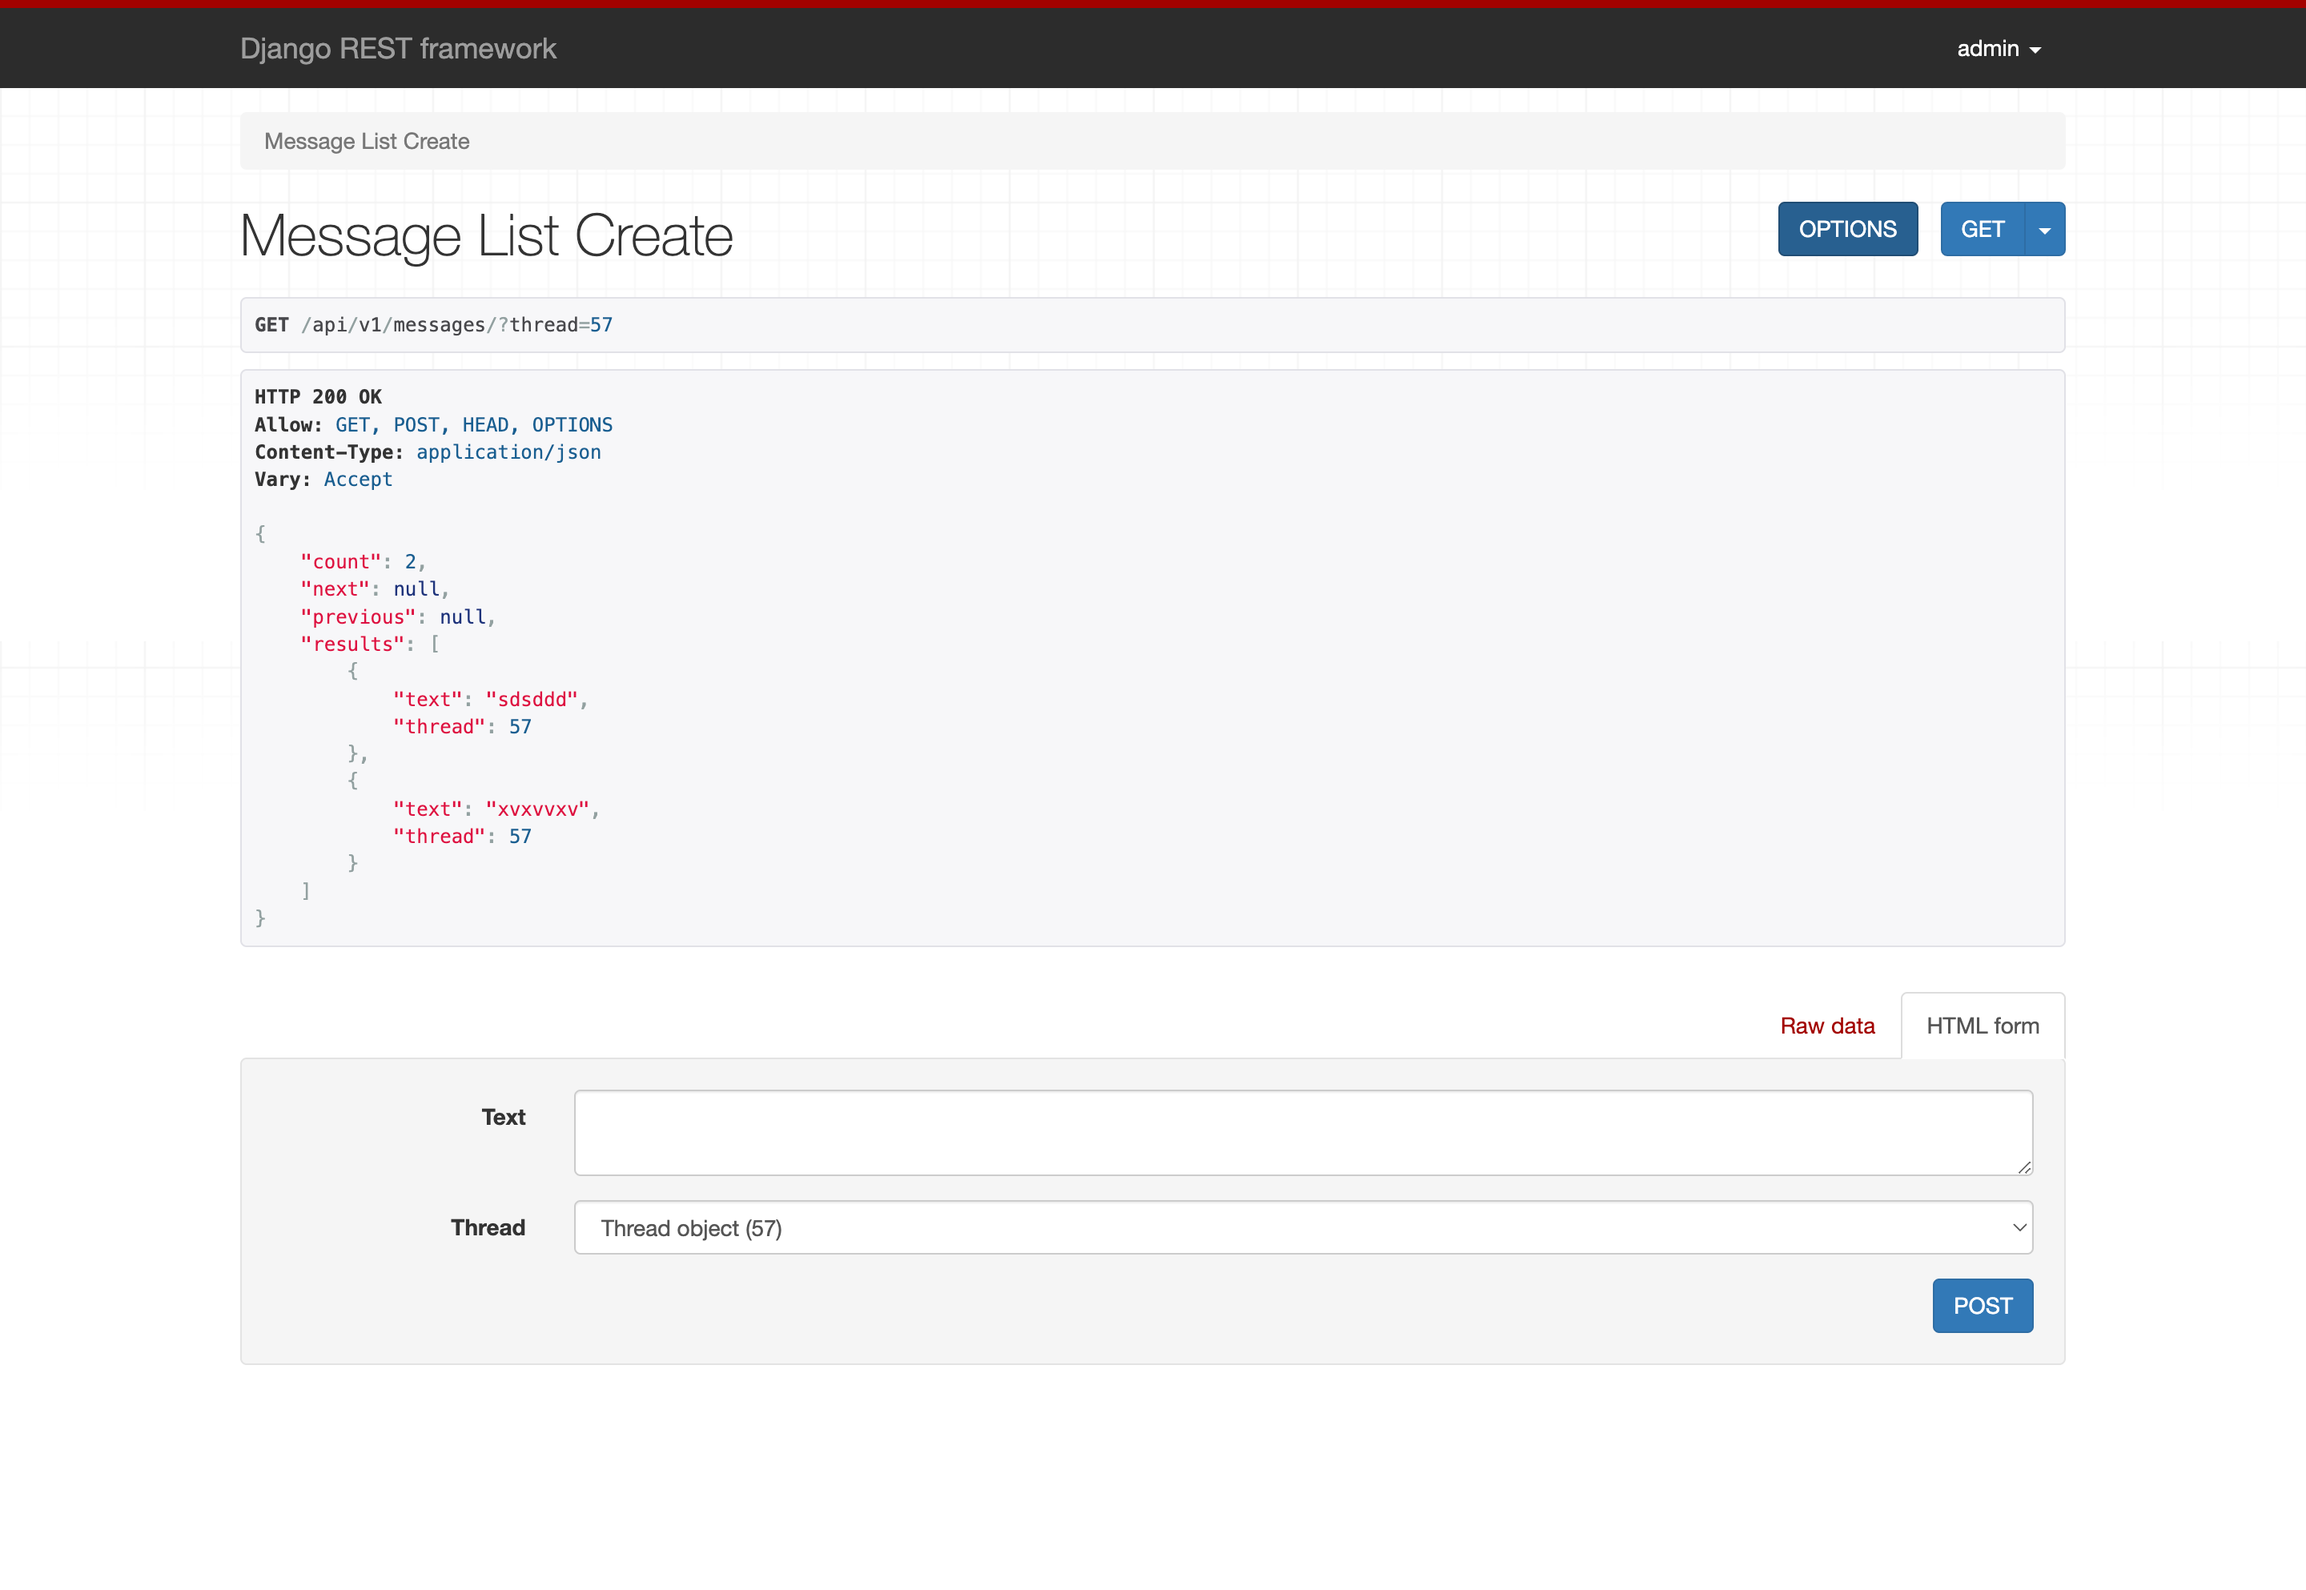
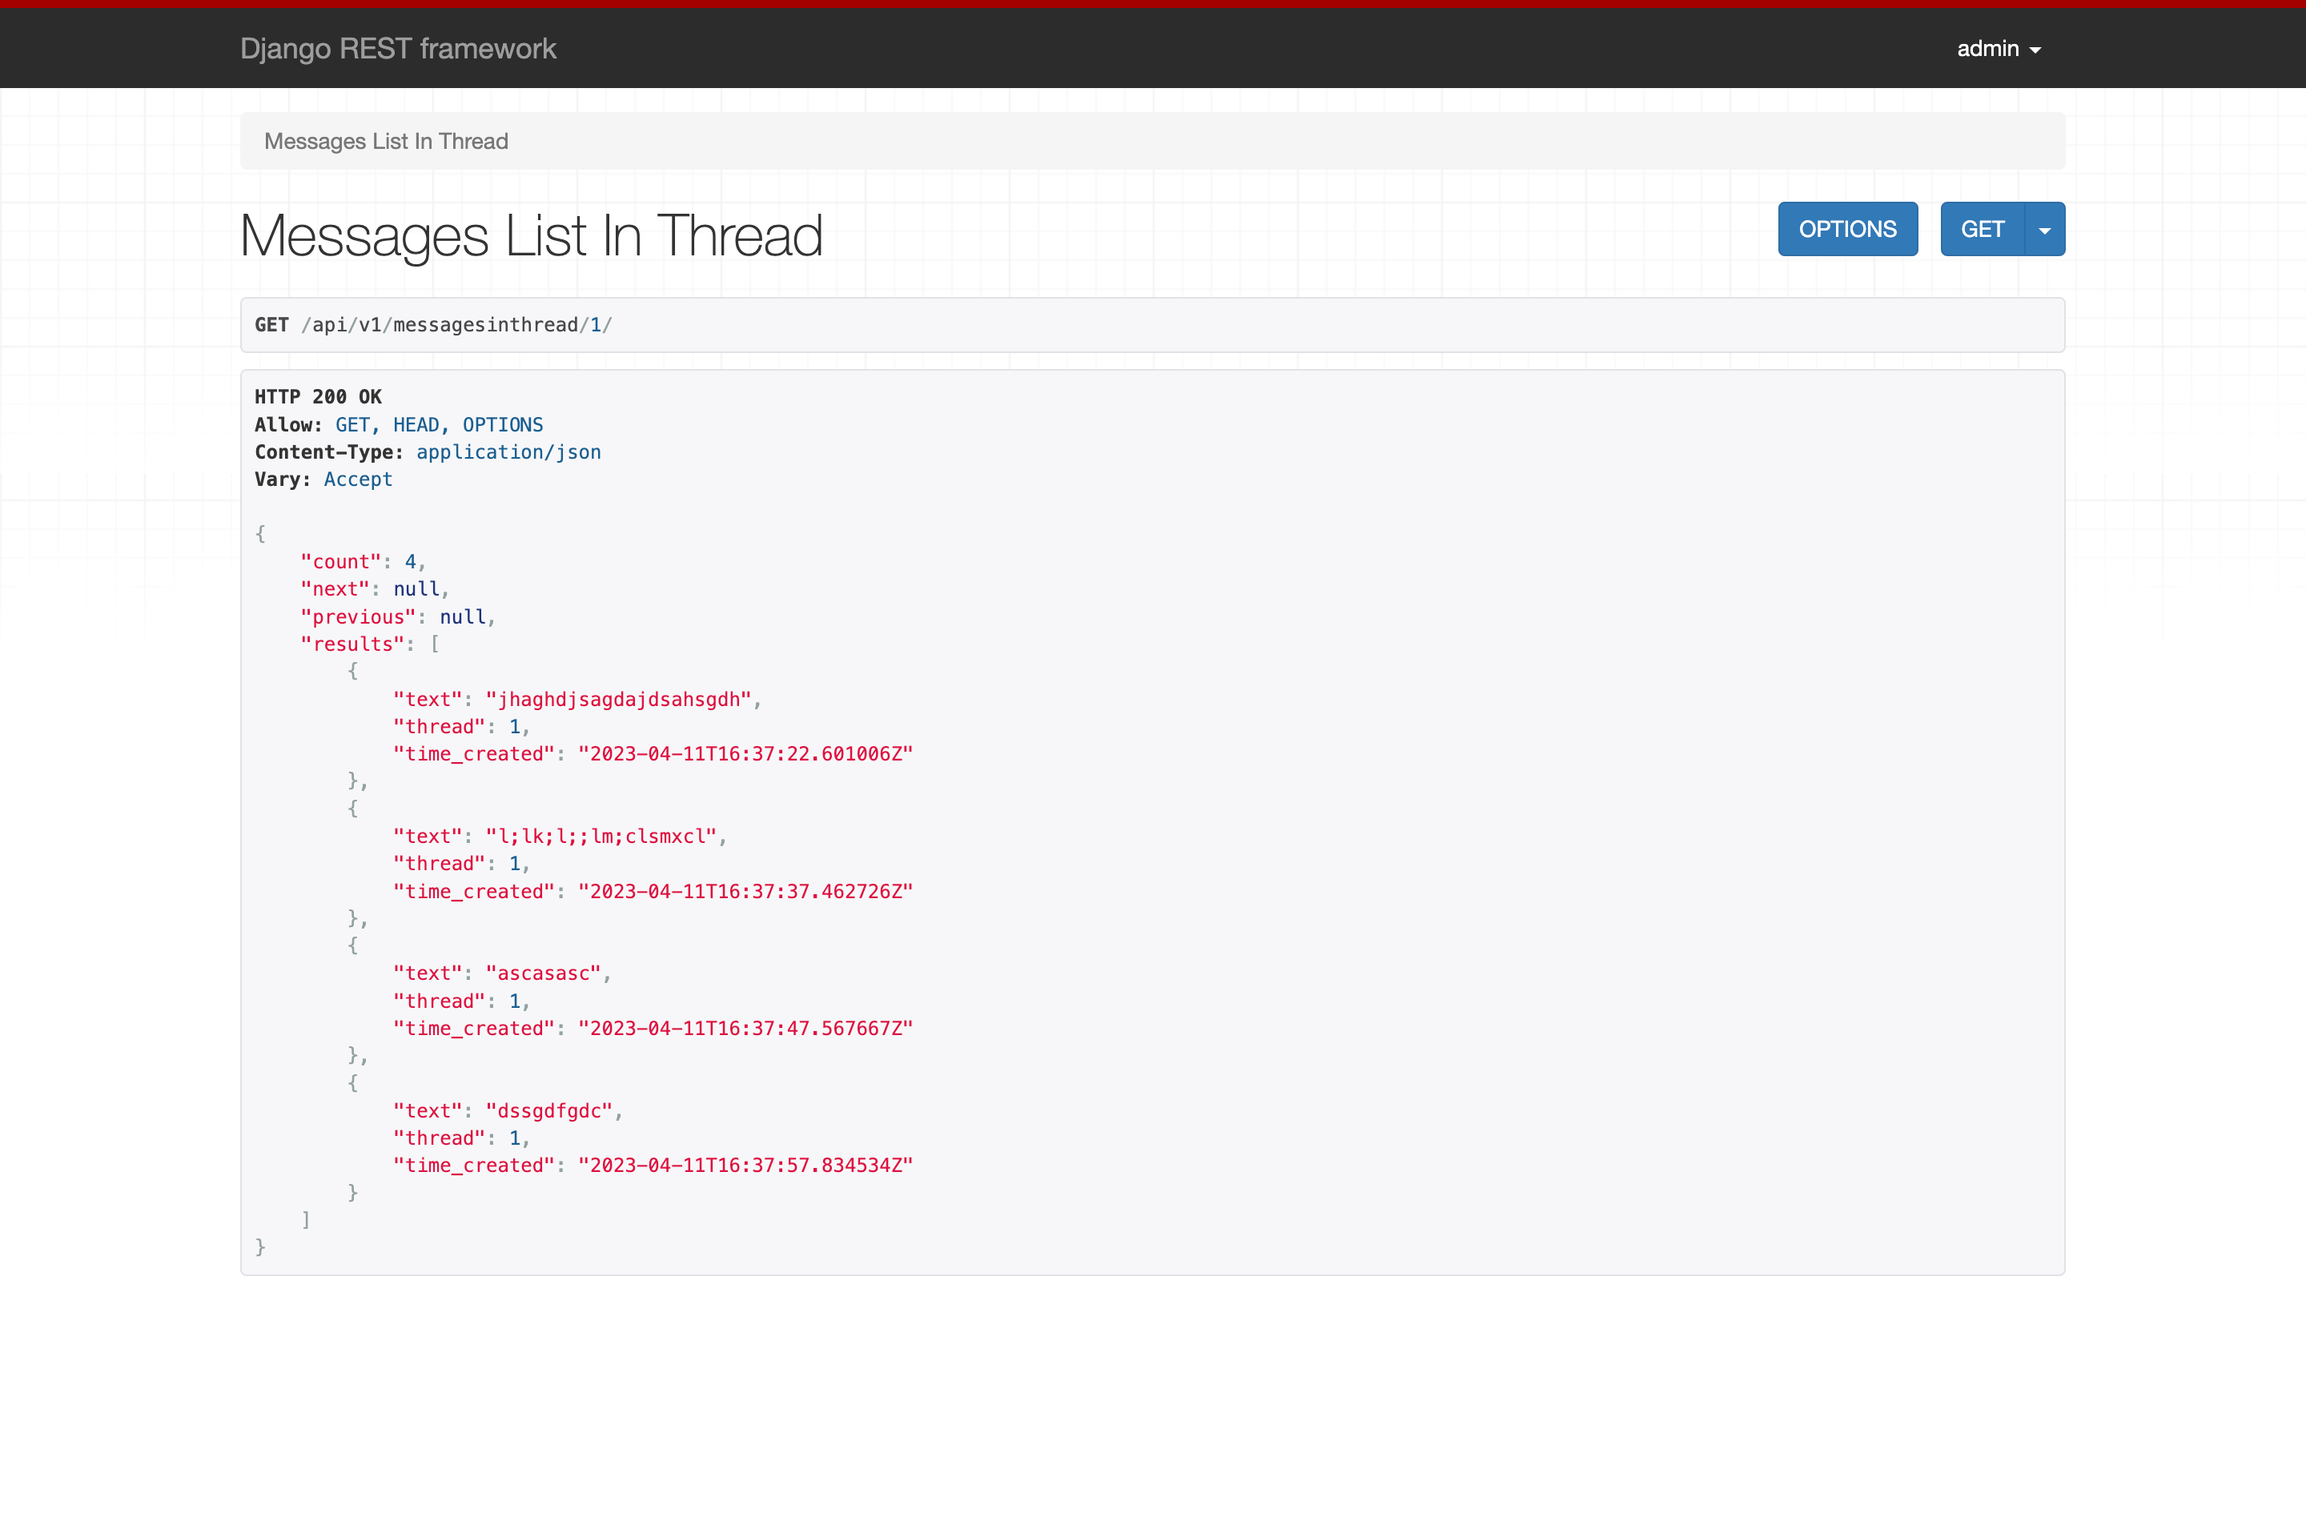
first commit

diff --git a/chat/app/views.py b/chat/app/views.py
@@ -2,6 +2,7 @@ from rest_framework import generics
 from rest_framework.response import Response
 from rest_framework.views import APIView
 from rest_framework.permissions import IsAuthenticated
+from .permissions import IsOwner
 from .models import Thread, Message, ThreadUser
 from .serializers import (
     ThreadSerializer,
@@ -10,14 +11,19 @@ from .serializers import (
 )
 
 
+class ThreadDestroyView(generics.DestroyAPIView):
+    queryset = Thread.objects.all()
+    serializer_class = ThreadSerializer
+    permission_classes = (IsAuthenticated,)
+
+
 class ThreadListCreateView(generics.ListCreateAPIView):
     queryset = Thread.objects.all()
     serializer_class = ThreadSerializer
     permission_classes = (IsAuthenticated,)
 
     def perform_create(self, serializer):
-        user = self.request.user
-        serializer.save(user=user)
+        serializer.save(user=self.request.user)
 
     def get_queryset(self):
         if self.request.method == "POST":
@@ -25,34 +31,32 @@ class ThreadListCreateView(generics.ListCreateAPIView):
         return [x.thread for x in ThreadUser.objects.filter(user=self.request.user)]
 
 
-class ThreadDestroyView(generics.DestroyAPIView):
-    queryset = Thread.objects.all()
-    serializer_class = ThreadSerializer
+class MessageCreateView(generics.CreateAPIView):
+    queryset = Message.objects.all()
+    serializer_class = MessageSerializer
     permission_classes = (IsAuthenticated,)
 
 
-class MessageListCreateView(generics.ListCreateAPIView):
+class MessageUpdateIsReadView(generics.UpdateAPIView):
+    queryset = Message.objects.all()
+    serializer_class = MessageUpdateSerializer
+    permission_classes = (IsOwner,)
+
+
+class CountMessageNotIsReadView(APIView):
+    permission_classes = (IsAuthenticated,)
+
+    def get(self, request):
+        count = Message.objects.filter(sender=self.request.user, is_read=False).count()
+        return Response({"count": count})
+
+
+class MessagesListInThreadView(generics.ListAPIView):
     queryset = Message.objects.all()
     serializer_class = MessageSerializer
     permission_classes = (IsAuthenticated,)
 
     def get_queryset(self):
-        if self.request.query_params is not None:
-            thread = self.request.query_params.get("thread")
-            return Message.objects.filter(thread=thread)
-        return Message.objects.all()
-
-
-class MessageIsReadView(generics.UpdateAPIView):
-    queryset = Message.objects.all()
-    serializer_class = MessageUpdateSerializer
-    permission_classes = (IsAuthenticated,)
-
-
-class MessageNotIsReadView(APIView):
-    permission_classes = (IsAuthenticated,)
-
-    def get(self, request):
+        thread = self.kwargs.get("pk")
         user = self.request.user
-        count = len(Message.objects.filter(sender=user, is_read=False))
-        return Response({"count": count})
+        return Message.objects.filter(thread=thread, sender=user)

diff --git a/chat/app/services.py b/chat/app/services.py
@@ -1,16 +1,27 @@
 from rest_framework import serializers
-from .models import ThreadUser
+from .models import ThreadUser, Thread
 
 
 def use_limit_participants(participants: list, limit: int):
+    """Ограничение передаваемых пользователей"""
     if len(participants) > limit:
-        raise serializers.ValidationError("There can only be two participants in the thread")
+        raise serializers.ValidationError(f"There can only be {limit + 1} participants in the thread")
 
 
-def valid_thread_exists(participant, user):
-    queryset1 = ThreadUser.objects.filter(user=user)
-    queryset2 = ThreadUser.objects.filter(user=participant.get("user"))
-    list_obj_thread = [obj.thread for obj in queryset2]
-    for obj in queryset1:
-        if obj.thread in list_obj_thread:
-            return obj.thread
+def create_thread(participants, user):
+    """Создает поток и связывает его с моделью User"""
+    obj = Thread.objects.create()
+    ThreadUser.objects.create(user=user, thread=obj)
+    for participant in participants:
+        ThreadUser.objects.create(user=participant.get("user"), thread=obj)
+    return obj
+
+def valid_thread_exists(participants, user):
+    """Проверка существует ли поток, работает только если учасников двое"""
+    if len(participants) == 1:
+        queryset1 = ThreadUser.objects.filter(user=user)
+        queryset2 = ThreadUser.objects.filter(user=participants[0].get("user"))
+        list_obj_thread = [obj.thread for obj in queryset2]
+        for obj in queryset1:
+            if obj.thread in list_obj_thread:
+                return obj.thread

diff --git a/chat/app/serializers.py b/chat/app/serializers.py
@@ -1,5 +1,5 @@
 from rest_framework import serializers
-from .services import use_limit_participants, valid_thread_exists
+from .services import use_limit_participants, valid_thread_exists, create_thread
 from .models import Thread, Message, ThreadUser
 
 
@@ -15,14 +15,14 @@ class ThreadSerializer(serializers.ModelSerializer):
     def create(self, validated_data):
         participants = validated_data.pop('participants')
         user = validated_data.get("user")
+
         use_limit_participants(participants=participants, limit=1)
-        obj = valid_thread_exists(participant=participants[0], user=user)
+        obj = valid_thread_exists(participants=participants, user=user)
+
         if obj is not None:
             return obj
-        obj = Thread.objects.create()
-        ThreadUser.objects.create(user=user, thread=obj)
-        for participant in participants:
-            ThreadUser.objects.create(user=participant.get("user"), thread=obj)
+
+        obj = create_thread(participants=participants, user=user)
         return obj
 
     class Meta:
@@ -35,7 +35,7 @@ class MessageSerializer(serializers.ModelSerializer):
 
     class Meta:
         model = Message
-        fields = ['text', 'thread', 'sender']
+        fields = ['text', 'thread', 'sender', 'time_created']
 
 
 class MessageUpdateSerializer(serializers.ModelSerializer):

diff --git a/chat/app/urls.py b/chat/app/urls.py
@@ -2,16 +2,18 @@ from django.urls import path
 from .views import (
     ThreadListCreateView,
     ThreadDestroyView,
-    MessageListCreateView,
-    MessageIsReadView,
-    MessageNotIsReadView
+    MessageCreateView,
+    MessageUpdateIsReadView,
+    CountMessageNotIsReadView,
+    MessagesListInThreadView,
 )
 
 
 urlpatterns = [
     path("threads/", ThreadListCreateView.as_view()),
     path("threads/<int:pk>/", ThreadDestroyView.as_view()),
-    path("messages/", MessageListCreateView.as_view()),
-    path("messages/<int:pk>/", MessageIsReadView.as_view()),
-    path("messagesnotisread", MessageNotIsReadView.as_view()),
+    path("messages/", MessageCreateView.as_view()),
+    path("messages/<int:pk>/", MessageUpdateIsReadView.as_view()),
+    path("messagesinthread/<int:pk>/", MessagesListInThreadView.as_view()),
+    path("count/", CountMessageNotIsReadView.as_view()),
 ]

diff --git a/chat/app/permissions.py b/chat/app/permissions.py
@@ -1,0 +1,6 @@
+from rest_framework import permissions
+
+
+class IsOwner(permissions.BasePermission):
+    def has_object_permission(self, request, view, obj):
+        return obj.sender == request.user

diff --git a/README.md b/README.md
@@ -1,6 +1,42 @@
 # test_task_iSi_Technology
-<details><summary>🏗 Quick start :</summary>
 
+<details><summary> 📄 The task:</summary>
+
+BackEnd iSi Technology test task<br>
+(Simple chat)<br>
+We need to provide an application with 2 models:<br>
+● Thread (fields - participants, created, updated)<br>
+● Message (fields - sender, text, thread, created, is_read)<br>
+Thread can’t have more than 2 participants.<br>
+1. Implement REST endpoints for:<br>
+● creation (if a thread with particular users exists - just return it.);<br>
+● removing a thread;<br>
+● retrieving the list of threads for any user;<br>
+● creation of a message and retrieving message list for the thread;<br>
+● marking the message as read;<br>
+● retrieving a number of unread messages for the user.<br>
+2. Customize Django admin.<br>
+3. Provide pagination(LimitOffsetPagination) where it is needed.<br>
+4. Validation in URLs is required, comments are welcome.<br>
+5. Add a README.md file with a description of how to run the test task.<br>
+6. Create a dump of a database to load test data.<br>
+7. Give access to the project in the GIT repository. (Public Access)<br>
+Requirements:<br>
+Djangо, DRF<br>
+authentication Simple JWT or Django Token;<br>
+database – SQLite<br>
+</details>
+<details><summary>📸 Screenshots:</summary>
+
+![Image alt](https://github.com/Lioniys/test_task_iSi_Technology/raw/main/screen/1.png)
+![Image alt](https://github.com/Lioniys/test_task_iSi_Technology/raw/main/screen/2.png)
+![Image alt](https://github.com/Lioniys/test_task_iSi_Technology/raw/main/screen/3.png)
+![Image alt](https://github.com/Lioniys/test_task_iSi_Technology/raw/main/screen/4.png)
+![Image alt](https://github.com/Lioniys/test_task_iSi_Technology/raw/main/screen/5.png)
+![Image alt](https://github.com/Lioniys/test_task_iSi_Technology/raw/main/screen/7.png)
+![Image alt](https://github.com/Lioniys/test_task_iSi_Technology/raw/main/screen/6.png)
+</details>
+<details><summary>⏱ Quick start:</summary>
 
 ```commandline
 pip install -r requirements.txt
@@ -12,21 +48,4 @@ Username: test1<br>
 Password: test1test1<br>
 Username: test2<br>
 Password: test2test2<br>
-
 </details>
-
-
-<details><summary> Screenshots :</summary>
-
-
-![Image alt](https://github.com/Lioniys/test_task_iSi_Technology/raw/main/screen/1.png)
-![Image alt](https://github.com/Lioniys/test_task_iSi_Technology/raw/main/screen/2.png)
-![Image alt](https://github.com/Lioniys/test_task_iSi_Technology/raw/main/screen/3.png)
-![Image alt](https://github.com/Lioniys/test_task_iSi_Technology/raw/main/screen/4.png)
-![Image alt](https://github.com/Lioniys/test_task_iSi_Technology/raw/main/screen/5.png)
-![Image alt](https://github.com/Lioniys/test_task_iSi_Technology/raw/main/screen/7.png)
-![Image alt](https://github.com/Lioniys/test_task_iSi_Technology/raw/main/screen/6.png)
-
-
-</details>
-
